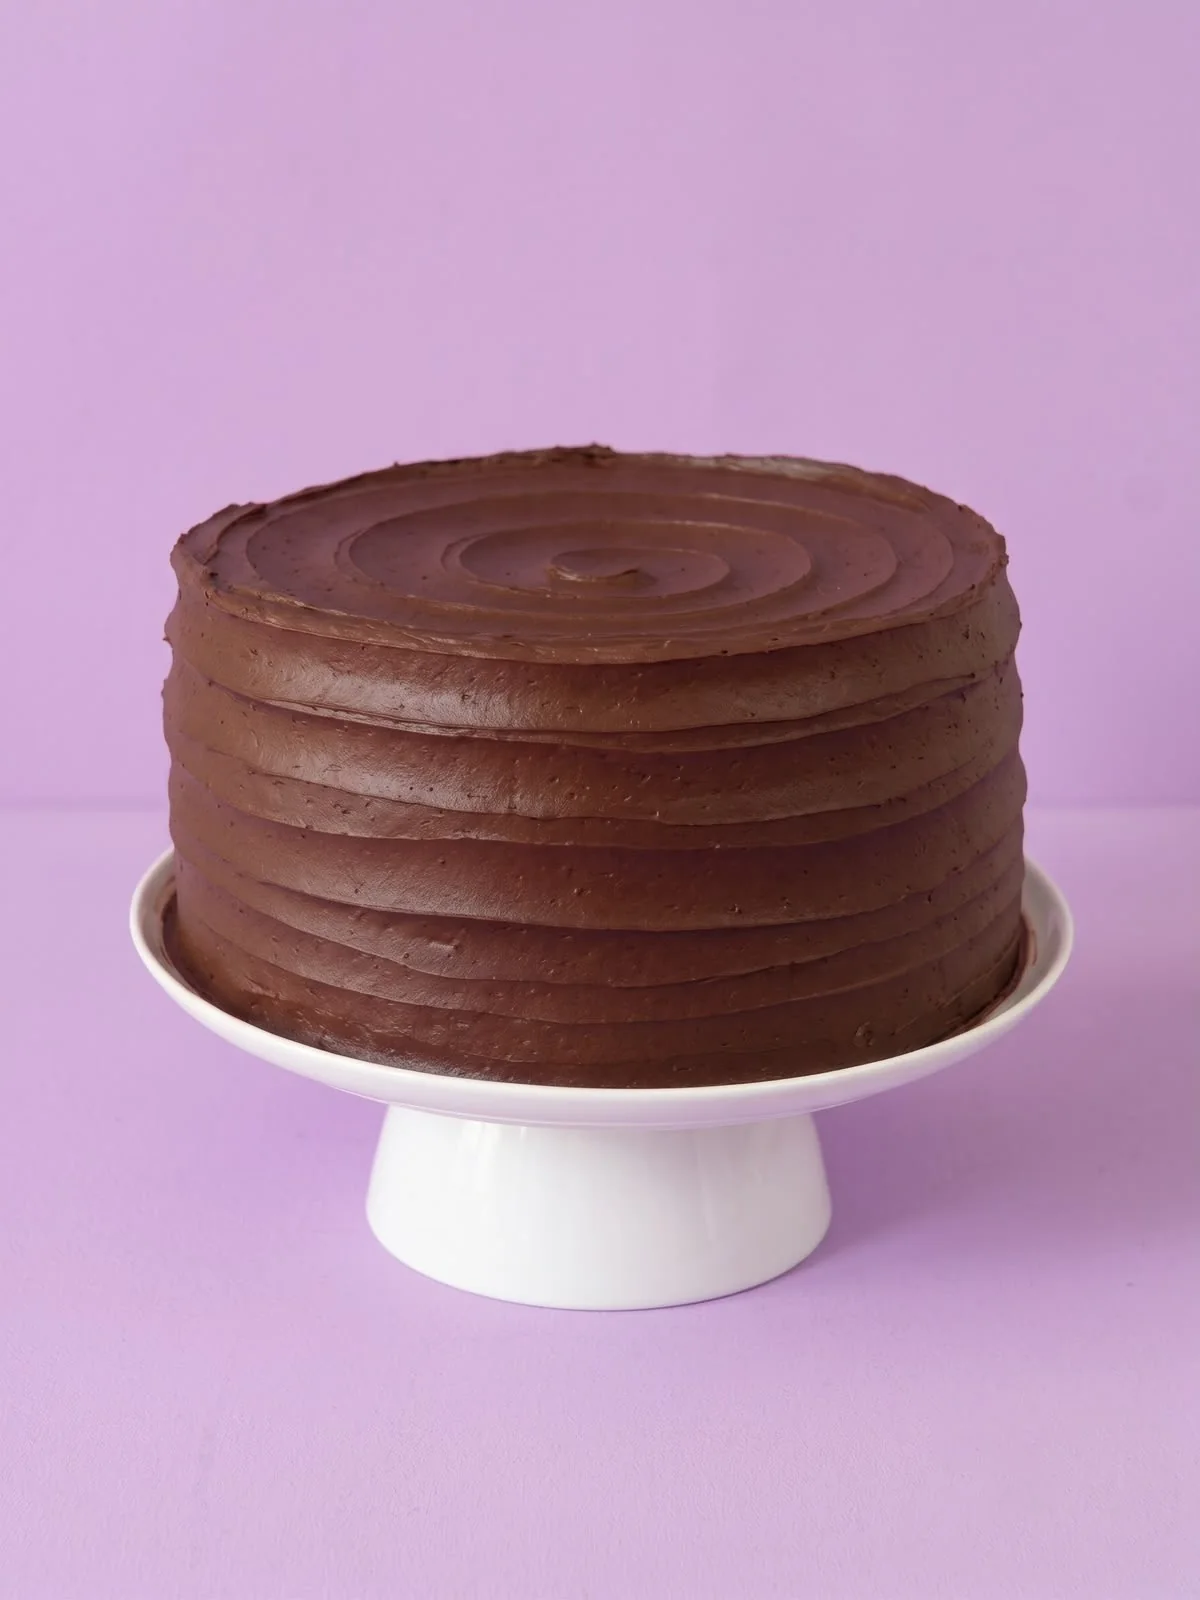
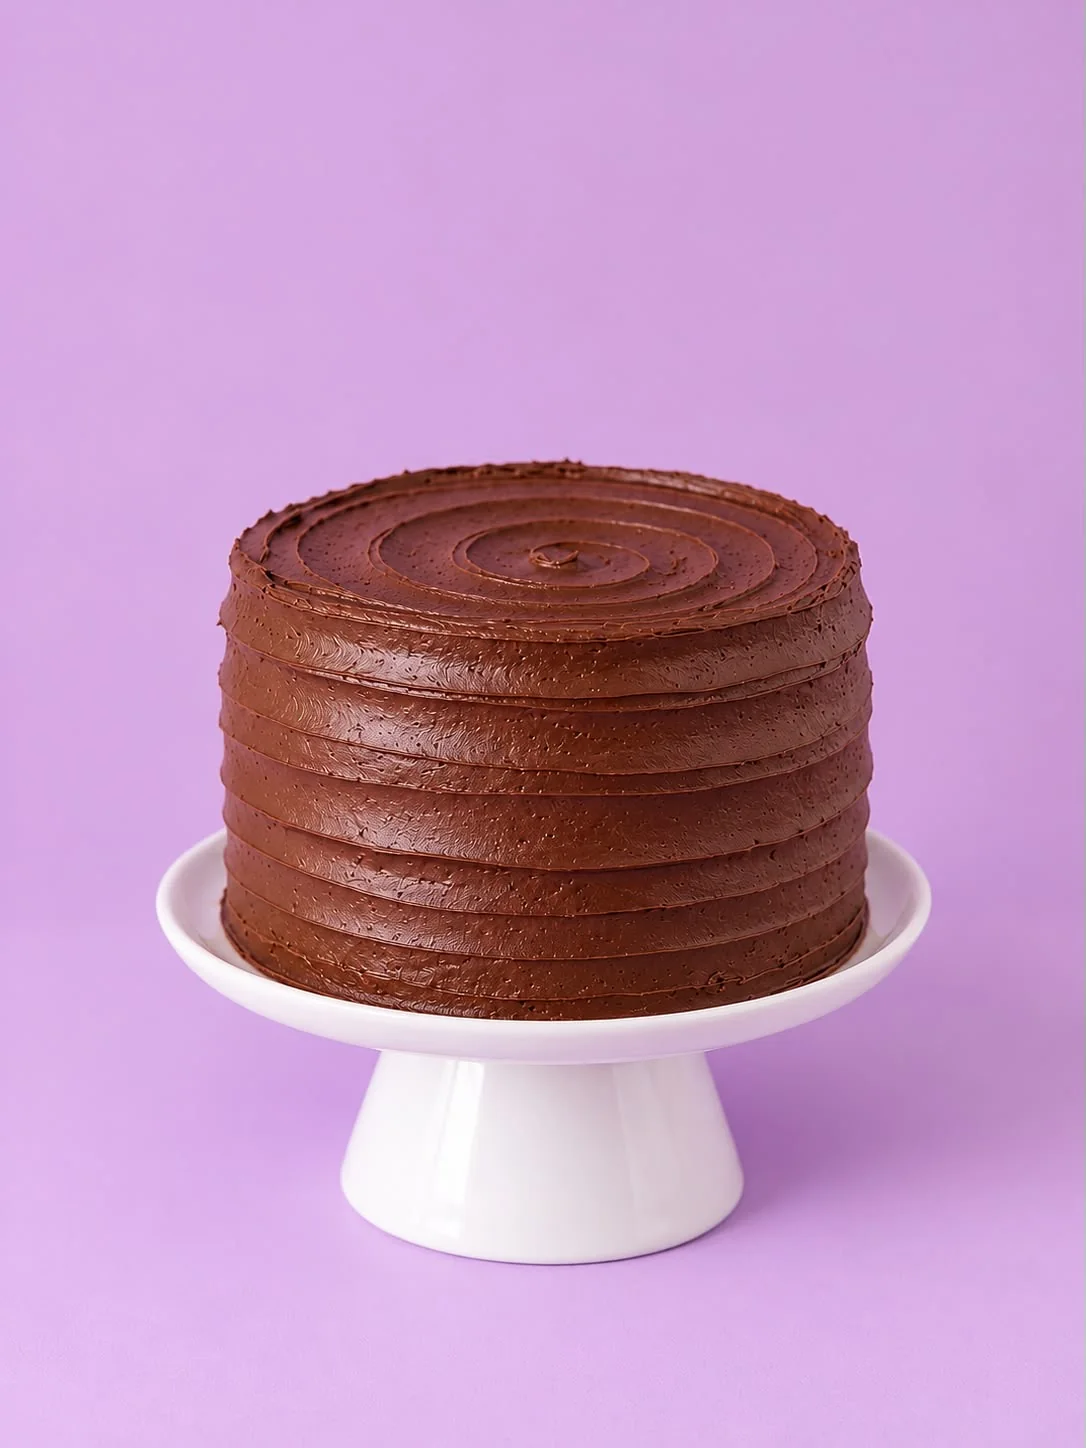
Tortas: mini torta de 10 cm y porción (#30)
* Mini donas: dibujo del vaso con 7 donitas; galletas con chocolate tipo Nutella

- Mini donas: la imagen ahora muestra lo que dice la descripción (vaso
  de 12 onz con 7 mini donitas), con donitas glaseadas y chispas como
  las reales, en vertical 4:5 y fondo lila como las fotos. La foto de
  las donitas sueltas queda en assets/img/originales/.
- Galletas: "…en bolsita de 150 g, con un vasito de chocolate tipo
  Nutella." (sale en la foto).

Claude-Session: https://claude.ai/code/session_01GHyyVr5iuHvK63zJVmzS7n

* Fotos en celular: cuadradas, sin cortar el producto y detalle más compacto

- Tarjetas en celular: foto 1:1 (antes 4:5, 458 px de alto): se ve el
  producto completo y el menú queda ~370 px más corto.
- Detalle en celular: foto cuadrada de máx. 280 px, centrada, para que
  tamaños y toppings se vean sin bajar tanto.
- Encuadre por foto (campo `posicion`): vasos de fresas y bolsita de
  galletas sin cortes; por defecto center 60%.
- El dibujo de las mini donas recorta (slice) en vez de dejar franjas.

Claude-Session: https://claude.ai/code/session_01GHyyVr5iuHvK63zJVmzS7n

* Fotos nuevas: galletas en bolsita y paveé de Milo; la foto del paveé cambia con el topping

- galletas-mini.webp: nueva foto (bolsitas con sticker y galletas mini)
- pave-milo.webp: paveé con Untable de Milo, foto de la tarjeta
- eleccion.opciones[].imagen/fotoNota/posicion: al elegir Leche Klim se ve su foto
- originales en assets/img/originales/
[…]

Changed region(s): [[0.0912, 0.2797, 1.0, 0.9012], [0.9116, 0.9323, 0.942, 0.9945], [0.4862, 0.9945, 0.5166, 1.0]]

diff --git a/assets/js/menu.js b/assets/js/menu.js
@@ -16,6 +16,8 @@
                (ej. el relleno de una torta): la tarjeta lista cada opción con su precio.
                Con varios tamaños, `precios: { idTamaño: precio }` da el precio de la opción
                en cada tamaño (ej. Berry Love: 1 Lb, ½ Lb y 10 cm).
+   - eleccion.soloTamanos: ["idTamaño"] → la opción solo se elige en esos tamaños
+     (ej. el relleno de Berry Love, solo en la mini torta de 10 cm).
    - categoria: "tortas" → el producto sale en esa sección de la página (sin categoría, en el menú).
    - aviso: texto que se muestra en el detalle (ej. cómo enviar las fotos de la torta).
    - galeria (producto, tamaño u opción, junto a `imagen`): [{ imagen, posicion? }] → fotos extra;
@@ -115,74 +117,61 @@ window.HM_ADICIONES = {
       posicion: "center 80%"
     },
 
-    /* ===== Tortas de 1 Lb (sección "Tortas") =====
-       Precio según el relleno: chocolate $130.000 · fresas con crema $120.000 · Oreo $110.000 ·
-       dulce de leche $105.000 (sin relleno, $90.000: no se ofrece en la página).
-       ½ Lb: fresas con crema $80.000 · dulce de leche u Oreo $75.000.
-       10 cm: fresas con crema $45.000 · dulce de leche u Oreo $40.000.
-       Chocolate (Choco Moon): ½ Lb $90.000 · 10 cm $50.000. */
+    /* ===== Tortas (sección "Tortas") =====
+       Solo pequeñas y por porción. La mini torta de 10 cm es por encargo (diasEncargo, hoy 2 días);
+       la porción no. */
     {
       id: "torta-choco-moon",
       categoria: "tortas",
       nombre: "Choco Moon",
       nombreCompleto: "Torta Choco Moon",
-      descripcion: "🍫 Para los verdaderos amantes del chocolate. Esponjoso bizcocho de chocolate, con un delicioso relleno de ganache de chocolate y una irresistible cobertura de chocolate que hace de cada bocado una experiencia llena de sabor. 🤎✨",
+      descripcion: "🍫 Torta de chocolate con relleno de ganache de chocolate y cobertura de chocolate. ¡Para los verdaderos amantes del chocolate! 🤎✨",
       tamanos: [
-        { id: "1lb", nombre: "1 Lb", precio: 130000 },
-        { id: "media", nombre: "½ Lb", precio: 90000 },
-        { id: "10cm", nombre: "10 cm", precio: 50000 }
+        { id: "10cm", nombre: "Mini torta 10 cm", detalle: "2 a 4 porciones", precio: 50000, encargo: true },
+        { id: "porcion", nombre: "Porción", precio: 18000 }
       ],
       imagen: "assets/img/torta-choco-moon.webp",
-      posicion: "center 70%"
-    },
-    {
-      id: "torta-strawberry-kiss",
-      categoria: "tortas",
-      nombre: "Strawberry Kiss",
-      nombreCompleto: "Torta Strawberry Kiss",
-      descripcion: "🍓 Una combinación irresistible en cada porción. Suave bizcocho de vainilla con un delicioso relleno de dulce de leche, cubierto con cremosa buttercream, fresas frescas y un toque de Oreo triturada. ¡El equilibrio perfecto entre dulzura y textura! 🤍✨",
-      tamanos: [
-        { id: "1lb", nombre: "1 Lb", precio: 105000 },
-        { id: "media", nombre: "½ Lb", precio: 75000 },
-        { id: "10cm", nombre: "10 cm", precio: 40000 }
-      ],
-      imagen: "assets/img/torta-strawberry-kiss.webp",
-      posicion: "center 88%"
+      posicion: "center 66%"
     },
     {
       id: "torta-caramel-crunch",
       categoria: "tortas",
       nombre: "Caramel Crunch",
       nombreCompleto: "Torta Caramel Crunch",
-      descripcion: "🤎 Un delicioso bizcocho de vainilla, relleno y cubierto con una suave capa de dulce de leche, coronado con maní crocante que aporta el toque perfecto de textura y sabor. 🤎✨ ¡Una combinación irresistible para los amantes de lo dulce!",
+      descripcion: "🤎 Bizcocho de vainilla con relleno de dulce de leche + maní, cobertura de dulce de leche y coronado con maní. ¡Una combinación irresistible para los amantes de lo dulce! ✨",
       tamanos: [
-        { id: "1lb", nombre: "1 Lb", precio: 105000 },
-        { id: "media", nombre: "½ Lb", precio: 75000 },
-        { id: "10cm", nombre: "10 cm", precio: 40000 }
+        { id: "10cm", nombre: "Mini torta 10 cm", detalle: "2 a 4 porciones", precio: 45000, encargo: true },
+        { id: "porcion", nombre: "Porción", precio: 17000 }
       ],
       imagen: "assets/img/torta-caramel-crunch.webp",
-      posicion: "center 62%"
+      posicion: "center 60%"
     },
     {
       id: "torta-berry-love",
       categoria: "tortas",
       nombre: "Berry Love",
       nombreCompleto: "Torta Berry Love",
-      descripcion: "💜 Delicioso bizcocho de vainilla, relleno de fresas frescas con crema y cubierto con suave buttercream. Decorado con fotografías personalizadas para darle un toque único y especial a tu celebración.✨",
-      tamanos: [{ id: "1lb", nombre: "1 Lb", precio: 120000 }],
+      descripcion: "💜 Bizcocho de vainilla con cobertura de chantillí. En la mini torta de 10 cm eliges el relleno: fresas con crema, Oreo o dulce de leche. La porción va con relleno de Oreo. ✨",
+      tamanos: [
+        { id: "10cm", nombre: "Mini torta 10 cm", detalle: "2 a 4 porciones", precio: 45000, encargo: true },
+        { id: "porcion", nombre: "Porción", detalle: "Relleno de Oreo", precio: 17000 }
+      ],
+      // El relleno solo se elige en la mini torta de 10 cm
       eleccion: {
         titulo: "Relleno",
+        detalle: "Elige uno",
+        soloTamanos: ["10cm"],
         opciones: [
-          { id: "fresas", nombre: "Fresas con crema", precio: 120000 },
-          { id: "dulce", nombre: "Dulce de leche", precio: 110000 },
-          { id: "oreo", nombre: "Oreo", precio: 110000 }
+          { id: "fresas", nombre: "Fresas con crema" },
+          { id: "oreo", nombre: "Oreo" },
+          { id: "dulce", nombre: "Dulce de leche" }
         ]
       },
-      aviso: "Esta torta va decorada con tus fotos: envíanoslas por WhatsApp al confirmar el pedido.",
       notaPlaceholder: "Ej: nombre, motivo de la celebración…",
       imagen: "assets/img/torta-berry-love.webp",
-      fotoNota: "Ejemplo: va con tus fotos",
-      posicion: "center 56%"
+      fotoNota: "Foto: relleno de fresas con crema",
+      posicion: "center 60%",
+      galeria: [{ imagen: "assets/img/torta-berry-love-corte.webp", posicion: "center 50%" }]
     }
   ];
 })();

diff --git a/assets/js/app.js b/assets/js/app.js
@@ -108,6 +108,9 @@
 
   // Opción elegida de un producto con "eleccion" (ej. el topping del paveé); la primera por defecto
   const getOpcion = (p, id) => (p.eleccion ? p.eleccion.opciones.find((o) => o.id === id) || p.eleccion.opciones[0] : null);
+  // ¿Se elige la opción en ese tamaño? (eleccion.soloTamanos, ej. el relleno de Berry Love solo en 10 cm)
+  const aplicaEleccion = (p, tamano) => !!p.eleccion && (!p.eleccion.soloTamanos || p.eleccion.soloTamanos.includes(tamano));
+  const opcionDe = (p, it) => (aplicaEleccion(p, it.tamano) ? getOpcion(p, it.opcion) : null);
   const ilustracionDe = (p, opcion) => {
     const o = getOpcion(p, opcion);
     return (o && o.ilustracion) || p.ilustracion || {};
@@ -245,7 +248,7 @@
     return {
       id: p.id,
       tamano: it.tamano,
-      opcion: p.eleccion ? getOpcion(p, it.opcion).id : "",
+      opcion: aplicaEleccion(p, it.tamano) ? getOpcion(p, it.opcion).id : "",
       adiciones: adicionesValidas(p, it.adiciones),
       nota: typeof it.nota === "string" ? it.nota.slice(0, 140) : "",
       cantidad
@@ -268,7 +271,7 @@
   function precioUnitario(it) {
     const p = getProducto(it.id);
     const t = getTamano(p, it.tamano);
-    return precioBase(t, getOpcion(p, it.opcion)) + it.adiciones.reduce((s, id) => s + ((getAdicion(id) || {}).precio || 0), 0);
+    return precioBase(t, opcionDe(p, it)) + it.adiciones.reduce((s, id) => s + ((getAdicion(id) || {}).precio || 0), 0);
   }
 
   const subtotal = () => carrito.reduce((s, it) => s + precioUnitario(it) * it.cantidad, 0);
@@ -303,7 +306,7 @@
     const p = getProducto(it.id);
     const t = getTamano(p, it.tamano);
     const adic = nombresToppings(p, it.adiciones);
-    const o = getOpcion(p, it.opcion);
+    const o = opcionDe(p, it);
     return {
       p, tamano: p.tamanos.length > 1 ? nombreTamano(t) : "", adic, nota: it.nota.trim(), encargo: esEncargo(p, t),
       opcion: o ? `${p.eleccion.titulo}: ${o.nombre}` : ""
@@ -438,7 +441,7 @@
     const grupo = grupoDe(p);
     const encargo = !ok && p.temporada ? p.temporada.texto
       : p.encargo ? textoEncargo()
-      : p.tamanos.some((t) => t.encargo) ? `${p.tamanos.filter((t) => t.encargo).map((t) => t.nombre).join(", ")} por encargo` : "";
+      : p.tamanos.some((t) => t.encargo) ? `${p.tamanos.filter((t) => t.encargo).map((t) => t.nombre).join(", ")} por encargo · ${CFG.diasEncargo} días antes` : "";
     const conPrecio = opcionesConPrecio(p);
     const detalle = `${varios || conPrecio ? "desde " : ""}${money(precioDesde(p))}${encargo ? ", " + encargo : ""}`;
     // Precios: una fila por tamaño; si el precio depende de la opción (relleno), una fila por opción
@@ -449,7 +452,7 @@
       ? p.tamanos.flatMap((t) => p.eleccion.opciones.map((o) => `<li><span>${esc(t.nombre)} <small>${esc(p.eleccion.titulo)}: ${esc(o.nombre)}</small></span><strong>${money(precioBase(t, o))}</strong></li>`))
       : p.tamanos.map((t) => `<li><span>${esc(t.nombre)}${t.detalle ? ` <small>${esc(t.detalle)}</small>` : ""}</span><strong>${money(t.precio)}</strong></li>`);
     const extra = conPrecio ? "" : p.eleccion
-      ? `<p class="hm-card-extra"><strong>${esc(p.eleccion.titulo)} incluido:</strong> ${esc(listaY(p.eleccion.opciones.map((o) => o.nombre), "o"))}</p>`
+      ? `<p class="hm-card-extra"><strong>${esc(p.eleccion.titulo)} ${p.eleccion.soloTamanos ? `a elegir (${esc(p.tamanos.filter((t) => p.eleccion.soloTamanos.includes(t.id)).map((t) => t.nombre).join(", "))})` : "incluido"}:</strong> ${esc(listaY(p.eleccion.opciones.map((o) => o.nombre), "o"))}</p>`
       : grupo
         ? `<div class="hm-card-toppings">
             <p class="hm-card-extra mb-2"><strong>Toppings ${esc(precioToppings(grupo))}</strong></p>
@@ -538,6 +541,7 @@
               : `<label class="hm-option justify-content-center text-center h-100" for="o-${o.id}">${esc(o.nombre)}</label>`}
           </div>`).join("")}
       </div>` : "";
+    pintarEleccion();
 
     // "Así va tu vaso": dibujo que se llena con lo que el cliente elige
     const ar = p.armar && window.HM_VASO ? p.armar : null;
@@ -660,7 +664,7 @@
     return {
       id: actual.id,
       tamano: fd.get("tamano"),
-      opcion: fd.get("opcion") || "",
+      opcion: aplicaEleccion(actual, fd.get("tamano")) ? fd.get("opcion") || "" : "",
       adiciones: expandir(grupoDe(actual), conteoToppings),
       nota: ($("#productoNota").value || "").trim(),
       cantidad
@@ -686,7 +690,13 @@
   }
 
   // El precio de cada relleno cambia con el tamaño elegido
+  // La elección (ej. el relleno) se muestra solo en los tamaños donde aplica
+  function pintarEleccion() {
+    $("#productoEleccion").hidden = !aplicaEleccion(actual, new FormData(form).get("tamano"));
+  }
+
   function pintarPreciosOpciones() {
+    if (!actual.eleccion) return;
     const t = getTamano(actual, new FormData(form).get("tamano"));
     $$("[data-precio-opcion]", form).forEach((el) => {
       const o = actual.eleccion.opciones.find((x) => x.id === el.dataset.precioOpcion);
@@ -696,7 +706,7 @@
 
   form.addEventListener("change", (e) => {
     if (e.target.name === "opcion" || e.target.name === "tamano") pintarMedia();
-    if (e.target.name === "tamano") { pintarVaso(); pintarPreciosOpciones(); }
+    if (e.target.name === "tamano") { pintarVaso(); pintarPreciosOpciones(); pintarEleccion(); }
     actualizarTotalProducto();
   });
   form.addEventListener("keydown", (e) => {

diff --git a/index.html b/index.html
@@ -162,7 +162,7 @@
           <div class="text-center mb-2">
             <span class="hm-kicker">para celebrar</span>
             <h2 class="hm-section-title" id="tortasTitle" tabindex="-1">Tortas</h2>
-            <p class="hm-section-sub">Tortas para celebrar con los que más quieres.</p>
+            <p class="hm-section-sub">Mini tortas de 10 cm (por encargo, con 2 días de anticipación) y porciones para darte un gusto.</p>
           </div>
           <div class="row row-cols-1 row-cols-sm-2 row-cols-xl-4 g-4 justify-content-center" data-categoria="tortas"></div>
         </section>

diff --git a/README.md b/README.md
@@ -75,16 +75,18 @@ Las ciudades de domicilio (`zonas`: hoy Barranquilla y Soledad), el horario (hoy
 
 ## Tortas
 
-Sección propia dentro del menú (`#tortas`, con enlace en la navegación y el pie). Muestra los productos con `categoria: "tortas"`: tortas de 1 Lb (no son por encargo: se piden como cualquier producto). Precios según el relleno:
+Sección propia dentro del menú (`#tortas`, con enlace en la navegación y el pie). Muestra los productos con `categoria: "tortas"`. Solo se venden pequeñas y por porción:
 
-- Choco Moon (relleno de chocolate): $130.000.
-- Strawberry Kiss (relleno de dulce de leche): 1 Lb $105.000.
-- Caramel Crunch (relleno de dulce de leche): 1 Lb $105.000.
-- Berry Love (decorada con las fotos del cliente), solo 1 Lb: el cliente elige el relleno, Fresas con crema $120.000, Dulce de leche $110.000 u Oreo $110.000.
-- Tamaños más pequeños, según el relleno: ½ Lb (fresas con crema $80.000, dulce de leche u Oreo $75.000) y 10 cm (fresas con crema $45.000, dulce de leche u Oreo $40.000). Hoy los tienen Strawberry Kiss y Caramel Crunch (dulce de leche): ½ Lb $75.000 y 10 cm $40.000. Choco Moon (chocolate): ½ Lb $90.000 y 10 cm $50.000.
-- Si un relleno cambia de precio según el tamaño, la opción puede llevar `precios: { idTamaño: precio }`. El detalle avisa que las fotos se envían por WhatsApp. En su foto de ejemplo, la tarjeta con la cara y el nombre de la persona va difuminada.
+| Torta | Mini torta 10 cm (2 a 4 porciones) | Porción |
+|---|---|---|
+| Choco Moon (chocolate, ganache y cobertura de chocolate) | $50.000 | $18.000 |
+| Caramel Crunch (vainilla, relleno de dulce de leche + maní, cobertura de dulce de leche y maní) | $45.000 | $17.000 |
+| Berry Love (vainilla y cobertura de chantillí) | $45.000, relleno a elegir: fresas con crema, Oreo o dulce de leche | $17.000, relleno de Oreo |
 
-La torta de 1 Lb sin relleno vale $90.000, pero no se ofrece en la página. Las fotos están en `assets/img/torta-*.webp` (originales en `assets/img/originales/`).
+- La mini torta de 10 cm es por encargo (`encargo: true` en ese tamaño, con `diasEncargo` días de anticipación, hoy 2): si está en el carrito, la fecha del pedido es obligatoria. La porción no.
+- En Berry Love el relleno solo se elige en la mini torta: `eleccion.soloTamanos: ["10cm"]`. En la porción no se muestra la elección y el pedido no lleva relleno elegido (va con Oreo).
+- La foto de Berry Love tiene la nota "Foto: relleno de fresas con crema" y una segunda foto en la galería.
+- Las opciones de `eleccion` también aceptan `precio` o `precios: { idTamaño: precio }` si algún día un relleno cambia el precio.
 
 ## Así va tu vaso
 
